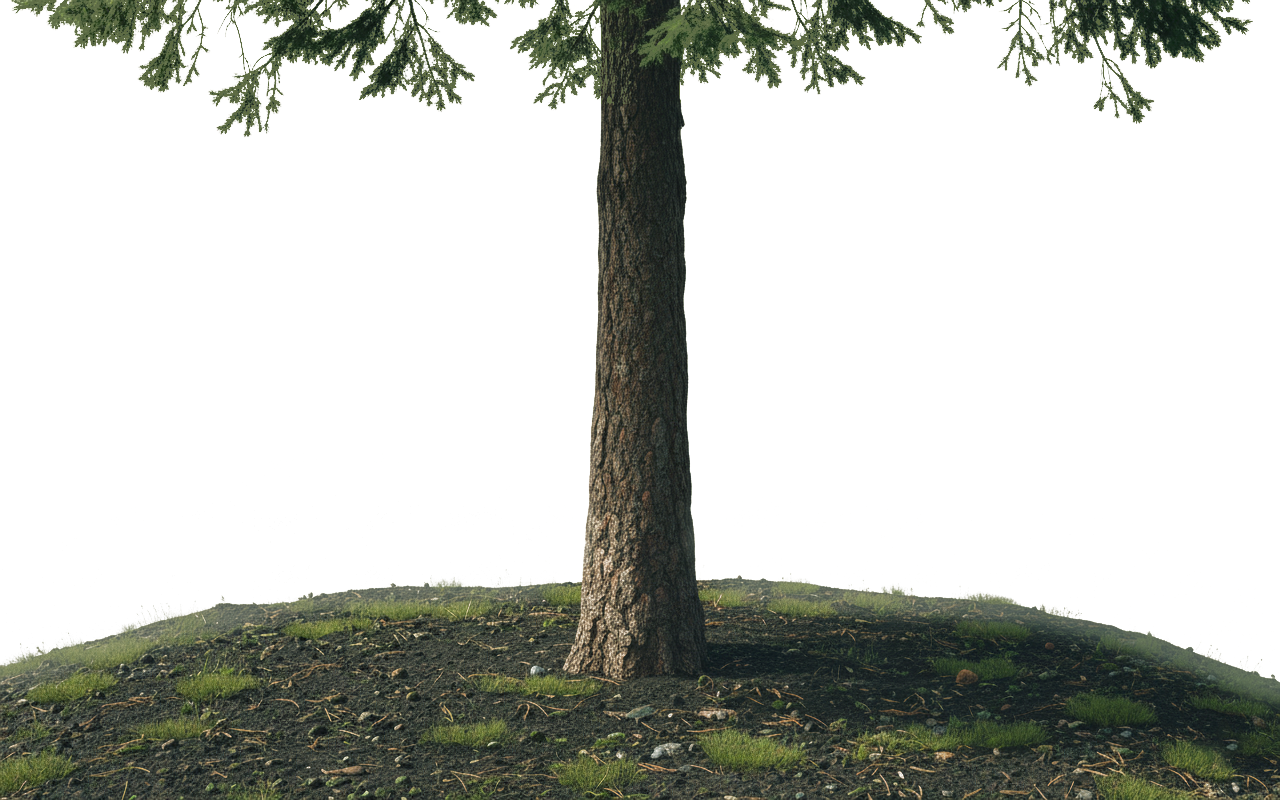
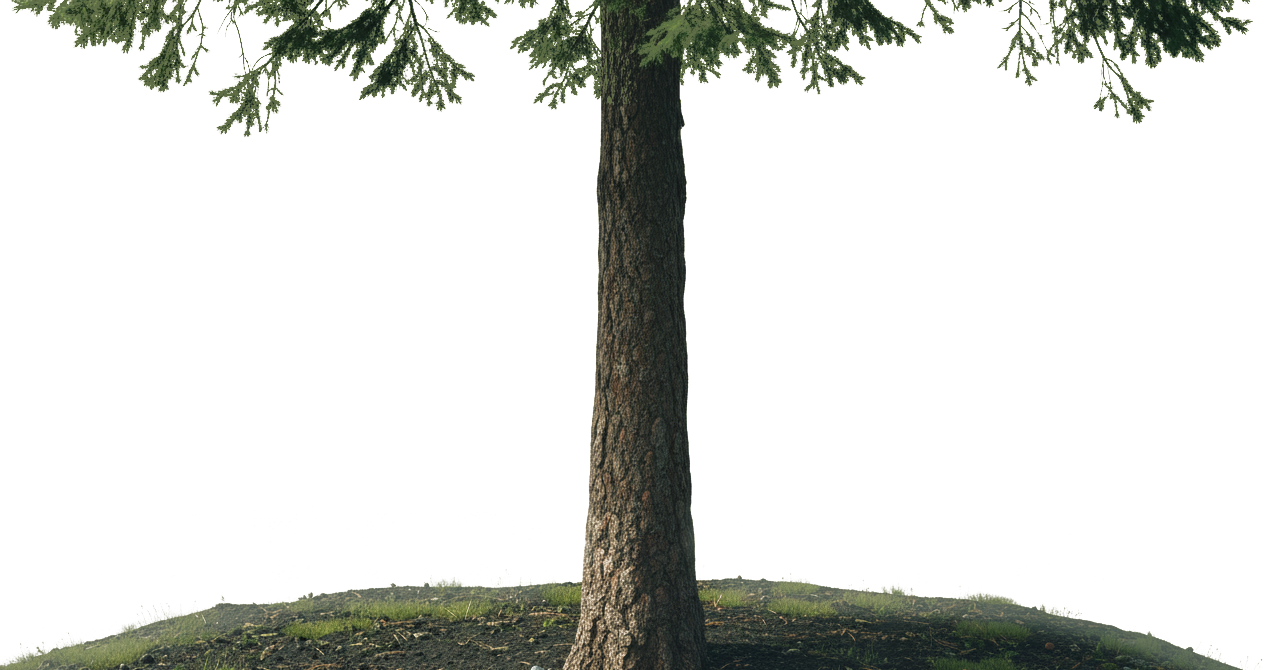
Created a container for holding about, featured and communities section with animations

Changed region(s): [[0.0, 0.0, 1.0, 1.0]]

diff --git a/app/page.js b/app/page.js
@@ -1,45 +1,13 @@
-"use client"
-
-import { useState, useRef, useEffect } from "react";
-import gsap from "gsap";
-import { useGSAP } from "@gsap/react";
+import LandingPageSections from "@/components/ui/LandingPageSections";
 
 export default function Home() {
-  const twn = useRef(null)
-
-  const handleClick = e => {
-    const elem = e.target
-    const index = Array.from(elem.parentNode.children).indexOf(elem)
-
-    twn.current && twn.current.kill()
-    twn.current = gsap.fromTo(".subjects", {
-      scale: 1,
-    }, {
-      scale: 0,
-      duration: 0.5,
-      yoyo: true,
-      repeat: 1,
-      stagger: {
-        amount: 0.8,
-        from: index,
-        grid: "auto",
-      },
-    })
-  }
-
-  const divlist = []
-  for(let i=0; i<100; i++) {
-    divlist.push(
-      <div key={i}
-        className="inline w-full h-full bg-green-300 subjects"
-        onClick={handleClick}
-      ></div>
-    )
-  }
-
-  return <main
-    className="grid grid-cols-10 h-[100dvh] w-[100dvw]"
-  >
-    {divlist}
-  </main>
+  return <>
+    <div className="h-dvh" id="hero"></div>
+    <LandingPageSections>
+      <div className="about-section"></div>
+      <div className="featured-section"></div>
+      <div className="communities-section"></div>
+    </LandingPageSections>
+    <div className="h-dvh" id="someplaceholderfortesting"></div>
+  </>
 }

diff --git a/components/ui/LandingPageSections.jsx b/components/ui/LandingPageSections.jsx
@@ -1,0 +1,43 @@
+import Image from "next/image";
+import mist_forest_img from "@/public/images/mist_forest2.png";
+import lone_tree_img from "@/public/images/lone_tree.png";
+import { LandingPageSectionsBgAnimation } from "@/components/gsapanimations/LandingPageAnimations";
+
+export default function LandingPageSections({
+  className = "",
+  children
+}) {
+  const landing_page_sections_id = "landing_page_sections_id"
+  const landing_page_bg_container_id = "landing_page_bg_container_id"
+  const lone_tree_img_id = "lone_tree_img_id"
+
+  return <>
+    <main
+      className={className + " " +
+        "min-h-dvh relative overflow-hidden *:h-dvh"
+      }
+      id={landing_page_sections_id}
+    >
+      <div
+        className="h-dvh w-screen absolute -z-1"
+        id={landing_page_bg_container_id}
+      >
+        <Image
+          src={mist_forest_img}
+          alt="Forest Background"
+          fill
+          className="object-cover h-dvh w-screen"
+        ></Image>
+        <Image
+          src={lone_tree_img}
+          alt="Lone Tree"
+          className="object-fill h-dvh max-w-none w-screen translate-x-[40%]"
+          id={lone_tree_img_id}
+        ></Image>
+      </div>
+      {children}
+    </main>
+
+    <LandingPageSectionsBgAnimation/>
+  </>
+}

diff --git a/components/gsapanimations/LandingPageAnimations.jsx b/components/gsapanimations/LandingPageAnimations.jsx
@@ -1,0 +1,42 @@
+"use client"
+
+import { gsap } from "gsap";
+import { useGSAP } from "@gsap/react";
+import { ScrollTrigger } from "gsap/ScrollTrigger";
+
+gsap.registerPlugin(useGSAP,ScrollTrigger);
+
+export function LandingPageSectionsBgAnimation({
+  landing_page_sections_id = "landing_page_sections_id",
+  landing_page_bg_container_id = "landing_page_bg_container_id",
+  lone_tree_img_id = "lone_tree_img_id",
+}) {
+  useGSAP(() => {
+    const sections_ref = document.getElementById(landing_page_sections_id)
+    const childCount = Math.max(sections_ref.children.length - 1, 1)
+
+    ScrollTrigger.create({
+      trigger: sections_ref,
+      scrub: true,
+      pin: "#" + landing_page_bg_container_id,
+      end: `${100*(1-1/childCount).toFixed(4)}% 0%`,
+    })
+
+    gsap.timeline({
+      scrollTrigger: {
+        trigger: sections_ref,
+        scrub: true,
+        start: `${100*(1/childCount).toFixed(4)}% 100%`,
+        end: `${100*(1-1/childCount).toFixed(4)}% 0%`,
+      }
+    })
+    .to("#" + lone_tree_img_id, {
+      xPercent: -80,
+    })
+    .to("#" + lone_tree_img_id, {
+      xPercent: -40,
+    })
+  })
+
+  return null
+}
